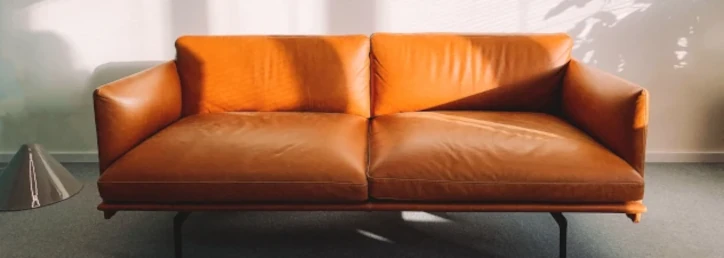
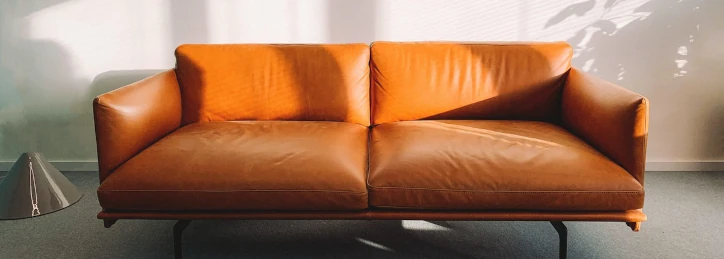
up

diff --git a/index.html b/index.html
@@ -5,6 +5,7 @@
     <meta charset="utf-8">
     <meta name="author" content="D.C">
     <meta name="viewport" content="width=device-width, initial-scale=1.0">
+    <meta name="description" content="Furniture warehouse">
     <title> Furniture warehouse </title>
     <link href="css/bootstrap.min.css" rel="stylesheet" type="text/css">
     <link href="css/fontawesome.min.css" rel="stylesheet" type="text/css">

diff --git a/scss/template/_main.scss b/scss/template/_main.scss
@@ -35,6 +35,7 @@ main {
                 border-left: 1px solid $c5;
                 border-right: 1px solid $c5;
                 width: 100%;
+                height: 100%;
                 @media only Screen and (min-width: 1400px) {
                     object-position: center;
                     object-fit: cover;

diff --git a/css/app.css b/css/app.css
@@ -270,6 +270,7 @@ main section:nth-child(2) span img {
   border-left: 1px solid rgba(255, 255, 255, 0.5);
   border-right: 1px solid rgba(255, 255, 255, 0.5);
   width: 100%;
+  height: 100%;
 }
 @media only Screen and (min-width: 1400px) {
   main section:nth-child(2) span img {
